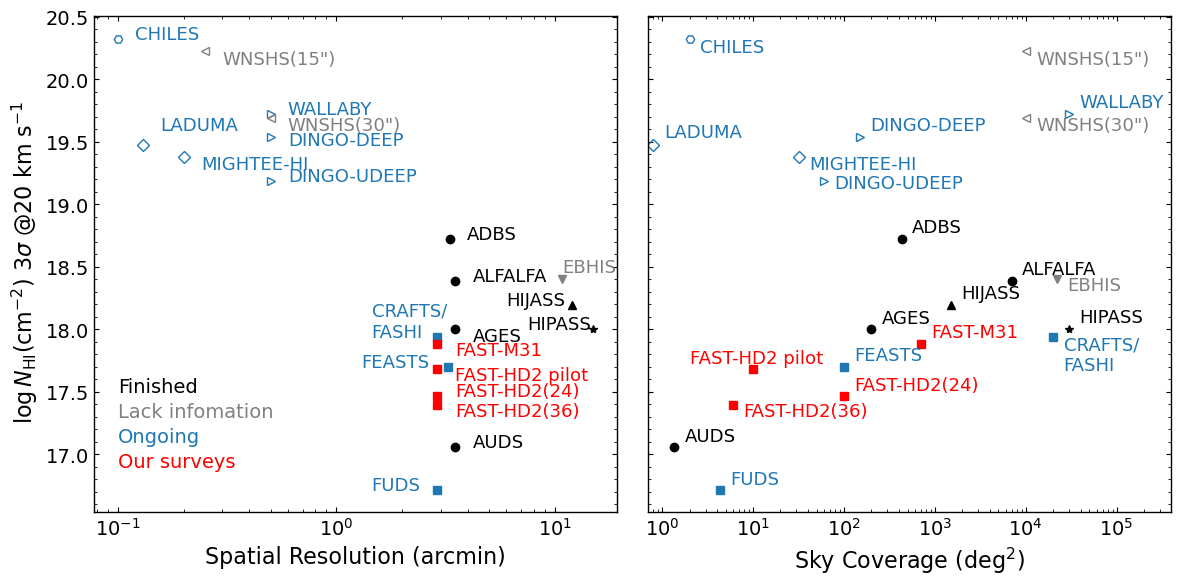
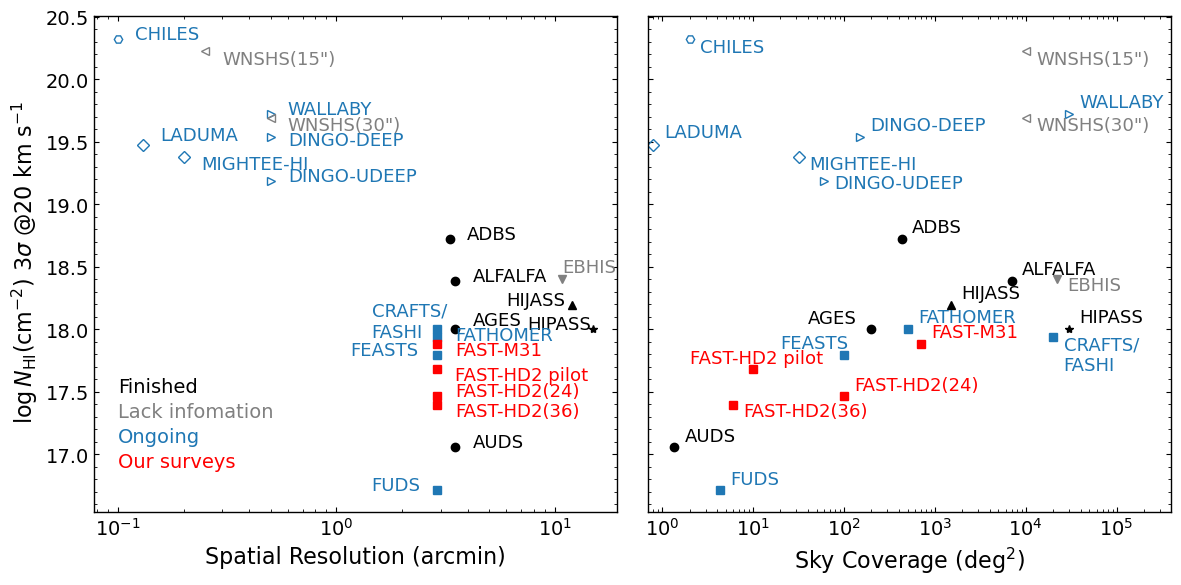
update HD2 obs

Changed region(s): [[0.6706, 0.5231, 0.8535, 0.6462], [0.3048, 0.5231, 0.4877, 0.6462], [0.1219, 0.1846, 0.2134, 0.2462]]

diff --git a/hd2/observation.md b/hd2/observation.md
@@ -30,7 +30,7 @@ title: HD2 Observations
         <div class="figure-container" style="text-align: center; margin: 2rem 0;">
             <img src="{{ '/assets/images/HD2_area.png' | relative_url }}" alt="HD2 Survey Footprint" style="max-width: 100%; height: auto; border-radius: 8px; box-shadow: 0 4px 6px rgba(0,0,0,0.1);">
             <p class="figure-caption" style="margin-top: 1rem; font-size: 0.95rem; line-height: 1.6; color: #666;">
-                <strong>Figure:</strong> Sky distribution of HD² survey fields overlaid on DESI DR1 spectroscopic completeness (yellow = completeness ~1.0; purple = ~0.4). Red box: HSC-SSP wide field. Orange: Pilot Survey (10 deg²). Blue solid: Y1 shallow (77 deg²). Dark blue solid: Y1 deep (6 deg²). Light blue dashed: Y2 shallow (22.4 deg²). Green dashed: Y2 medium-deep (46 deg²). (Credit: Xu, Chen)
+                <strong>Figure:</strong> Sky distribution of HD² survey fields overlaid on DESI DR1 spectroscopic completeness (yellow = completeness ~1.0; purple = ~0.4). Red box: HSC-SSP wide field. Orange: Pilot Survey (10 deg²). Blue solid: Y1+Y2 wide (100 deg²). Dark blue solid: Y1 deep (5 deg²). Green dashed: Y2 medium-deep (46 deg²). (Credit: Xu, Chen 2026)
             </p>
         </div>
 
@@ -45,7 +45,7 @@ title: HD2 Observations
                 <tr>
                     <th>Milestone</th>
                     <th>Area</th>
-                    <th>Depth (passes)</th>
+                    <th>Cumulative Depth <br>(drift scan passes)<br> </th>
                     <th>Status</th>
                     <th>Period</th>
                 </tr>
@@ -55,49 +55,57 @@ title: HD2 Observations
                     <td>Pilot Survey</td>
                     <td>10 deg²</td>
                     <td>9 passes (~7.3 min/beam)</td>
-                    <td>✓ Complete</td>
+                    <td>Complete</td>
                     <td>Jul–Aug 2023</td>
                 </tr>
                 <tr>
-                    <td>Y1 Shallow</td>
+                    <td>Y1 Wide</td>
                     <td>77 deg²</td>
                     <td>9 passes (~7.3 min/beam)</td>
-                    <td>✓ Complete</td>
+                    <td>Complete</td>
                     <td>Aug 2024 – Apr 2025</td>
                 </tr>
                 <tr>
                     <td>Y1 Deep</td>
                     <td>6 deg²</td>
                     <td>36 passes (~29 min/beam)</td>
-                    <td>✓ Complete</td>
+                    <td>Complete</td>
                     <td>May–Jun 2025</td>
                 </tr>
                 <tr>
-                    <td>Y2 Shallow (100 deg² complete)</td>
+                    <td>Y2 Wide</td>
                     <td>23 deg²</td>
-                    <td>9 passes</td>
-                    <td>✓ Complete</td>
+                    <td>9 passes (~7.3 min/beam)</td>
+                    <td>Y1+Y2 Wide = 100 deg²<br>Complete</td>
                     <td>Mar 2026</td>
                 </tr>
                 <tr>
                     <td>Y2 Medium-deep</td>
                     <td>46 deg²</td>
                     <td>18 passes (~14.6 min/beam)</td>
-                    <td>⏳ In progress</td>
-                    <td>Expected 2027</td>
+                    <td>Complete</td>
+                    <td>Mar-Apr 2026</td>
                 </tr>
+                <tr>
+                    <td>Y3 Medium-deep</td>
+                    <td>54 deg²</td>
+                    <td>18 passes (~14.6 min/beam)</td>
+                    <td>Planned</td>
+                    <td>2027</td>
+                </tr>
+
                 <tr>
                     <td>Full Survey (24+ passes)</td>
                     <td>100 deg²</td>
-                    <td>24 passes (~20 min/beam)</td>
-                    <td>🔭 Planned</td>
-                    <td>~2028</td>
+                    <td>24+ passes (>20 min/beam)</td>
+                    <td>Planned</td>
+                    <td>Expected 2028</td>
                 </tr>
             </tbody>
         </table>
         
         <div class="alert alert-info">
-            <strong>Progress Update:</strong> As of March 2026, the full 100 deg² footprint has been observed to a shallow depth of 9 drift-scan passes (rms ~ 0.45 mJy beam⁻¹). Observations are ongoing to deepen coverage toward the final survey sensitivity of 0.28 mJy beam⁻¹, with completion expected around 2028.
+            <strong>Progress Update:</strong> As of March 2026, the full 100 deg² footprint has been observed to a Wide depth of 9 drift-scan passes (rms ~ 0.45 mJy beam⁻¹). Observations are ongoing to deepen coverage toward the final survey sensitivity of 0.28 mJy beam⁻¹, with completion expected around 2028.
         </div>
     </section>
     
@@ -111,8 +119,8 @@ title: HD2 Observations
         <h3 class="section-subtitle">Layered Depth Strategy</h3>
         <p>HD² adopts a tiered observing strategy to balance area coverage and integration depth across its multi-year program:</p>
         <ul>
-            <li><strong>Shallow tier (9 passes):</strong> rms ~ 0.45 mJy beam⁻¹ at 4.8 km s⁻¹ — matches the pilot survey depth, covering the full 100 deg²</li>
-            <li><strong>Medium tier (18 passes):</strong> rms ~ 0.32 mJy beam⁻¹ — covering ~46 deg² in Year 2</li>
+            <li><strong>Wide tier (9 passes):</strong> rms ~ 0.45 mJy beam⁻¹ at 4.8 km s⁻¹ — matches the pilot survey depth, covering the full 100 deg²</li>
+            <li><strong>Medium-deep tier (18 passes):</strong> rms ~ 0.32 mJy beam⁻¹ — covering ~46 deg² in Year 2</li>
             <li><strong>Deep tier (24+ passes):</strong> rms ~ 0.28 mJy beam⁻¹ — full survey target sensitivity over 100 deg², equivalent to ~20 min integration per beam</li>
             <li><strong>Deepest tier (36 passes):</strong> rms ~ 0.23 mJy beam⁻¹ — 6 deg² ultra-deep field in Year 1</li>
         </ul>
@@ -235,7 +243,7 @@ title: HD2 Observations
             <a href="https://iopscience.iop.org/article/10.1088/1674-4527/ad30b5" target="_blank">Liu et al. 2024 (Paper II)</a>, 
             <a href="https://iopscience.iop.org/article/10.1088/1674-4527/ad9685" target="_blank">Xu et al. 2025 (Paper III)</a>, and
             <a href="https://iopscience.iop.org/article/10.1088/1674-1056/ad9092" target="_blank">Chen et al. 2026 (Paper IV)</a>.
-            The further details on the survey implementation can be found in <strong>Xu et al. (submitted to ApJS)</strong>.
+            The further details on the survey implementation can be found in <strong>Xu et al. 2026</strong>.
         </p>
     </section>
     

diff --git a/hd2/data.md b/hd2/data.md
@@ -6,7 +6,7 @@ title: HD2 Data
 <div class="page-header">
     <div class="container">
         <h1 class="page-title">HD² Data Products</h1>
-        <p class="page-subtitle">Download Catalogs, Spectra, and Images</p>
+        <p class="page-subtitle">Data Catalogs, Spectra, and Data Policy</p>
     </div>
 </div>
 
@@ -24,8 +24,8 @@ title: HD2 Data
     <section class="content-section">
         <h2 class="section-title">Data Releases</h2>
         
-        <div class="alert alert-warning">
-            <strong>To be determined</strong> <br>
+        <div class="alert alert-info">
+            <strong> 🎉 Our pilot survey data release is available! </strong> <br>
         </div>
         
         <table>

diff --git a/hd2/science.md b/hd2/science.md
@@ -26,7 +26,7 @@ title: HD2 Science
         
         <p>The HD² survey is designed to open a new parameter space in extragalactic HI astronomy: deeper than wide-field surveys and wider than pointed deep surveys, within a field richly covered by DESI, HSC-SSP, and other multiwavelength datasets. Our science goals span from the statistics of neutral gas in the local universe to the HI distribution of the large structure.</p>
         
-        <h3 class="section-subtitle">1. Census of HI-Bearing Galaxies and the HI Mass Function</h3>
+        <h3 class="section-subtitle">1. Census of HI Content of Galaxies and the HI Mass Function</h3>
         <p>A fundamental goal of HD² is to provide a highly complete census of HI-bearing galaxies. By leveraging FAST's exceptional sensitivity over a contiguous 100 deg² area, the survey minimizes selection effects and cosmic variance. This enables a robust measurement of the HI mass function (HIMF), providing a reliable benchmark for cosmological simulations and tracing the distribution of neutral gas in the local universe.</p>
         
         <h3 class="section-subtitle">2. HI Scaling Relations and Environmental Effects in Synergy with DESI</h3>

diff --git a/index.md b/index.md
@@ -52,7 +52,7 @@ title: Home
         <div class="figure-container" style="text-align: center; margin: 2rem 0;">
             <img src="assets/images/surveys.png" alt="HI Survey Comparison" style="max-width: 100%; height: auto; border-radius: 8px; box-shadow: 0 4px 6px rgba(0,0,0,0.1);">
             <p class="figure-caption" style="margin-top: 1rem; font-size: 0.95rem; line-height: 1.6; color: #666;">
-                <strong>Figure:</strong> Comparison of HI surveys in terms of spatial resolution vs. column density sensitivity (left) and sky coverage vs. column density sensitivity (right). Our surveys (red squares) occupies a unique parameter space, combining arcminute-scale spatial resolution with hundreds of deg² sky coverage while achieving deep column density limits of log N<sub>HI</sub> ~ 17.5 cm<sup>-2</sup> at 20 km s<sup>-1</sup> resolution — a balance unmatched by wide-field shallow surveys or ultra-deep surveys. (Credit: Xu, Chen)
+                <strong>Figure:</strong> Comparison of HI surveys in terms of spatial resolution vs. column density sensitivity (left) and sky coverage vs. column density sensitivity (right). Our surveys (red squares) occupies a unique parameter space, combining arcminute-scale spatial resolution with hundreds of deg² sky coverage while achieving deep column density limits of log N<sub>HI</sub> ~ 17.5 cm<sup>-2</sup> at 20 km s<sup>-1</sup> resolution — a balance unmatched by wide-field shallow surveys or ultra-deep surveys. (Credit: Xu, Chen/2026)
             </p>
         </div>
 